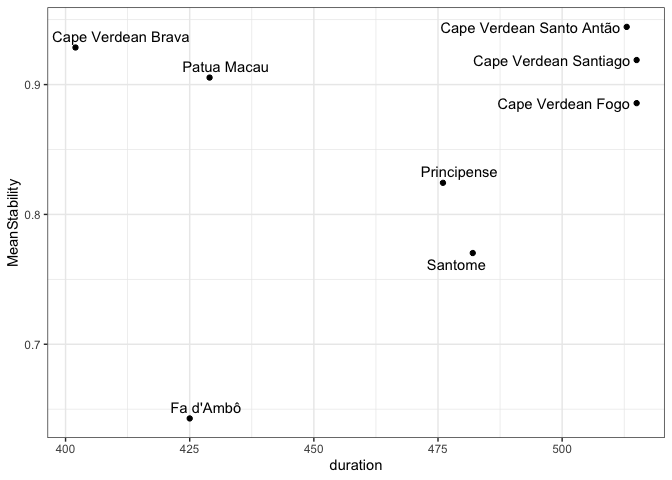
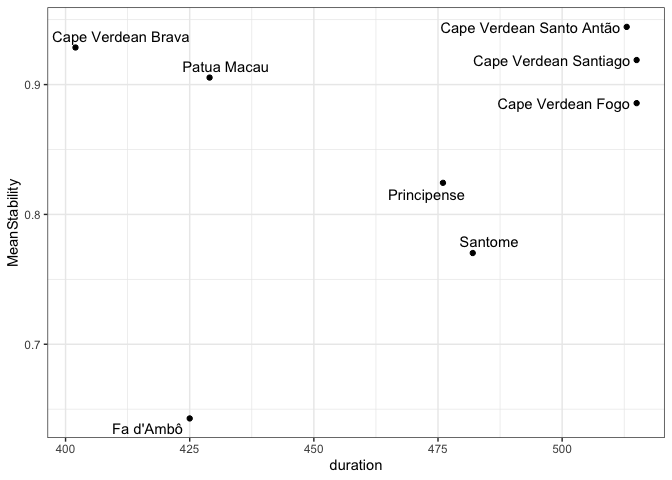
rn

Changed region(s): [[0.5625, 0.3438, 0.75, 0.4375], [0.1562, 0.8438, 0.375, 0.9062], [0.625, 0.5, 0.7812, 0.5625]]

diff --git a/README.md b/README.md
@@ -22,12 +22,9 @@ Steven Moran, Carlos Silva and Nicholas A. Lester
 
 <!-- Supplementary materials for [Consonant Stability in Portuguese-based creoles](https://www.overleaf.com/project/60cdac0dd5871295e0f608fc). Silva, Carlos and Steven Moran. Work in progress. -->
 
-Supplementary materials for:
-
-> > > Consonant Stability in Portuguese-based creoles.
-
-In this report, we provide code in R (R Core Team 2021) and we use these
-R libraries (Wickham et al. 2019; Xie 2021; Slowikowski 2022):
+Supplementary materials for, “Consonant Stability in Portuguese-based
+creoles”. In this report, we provide code in R (R Core Team 2021) and we
+use these R libraries (Wickham et al. 2019; Xie 2021; Slowikowski 2022):
 
 ``` r
 library(tidyverse)
@@ -41,13 +38,10 @@ theme_set(theme_bw())
 Load the data set.
 
 ``` r
-# Because the private token keeps resetting...
-# database <- read_csv('https://raw.githubusercontent.com/CreoPhon/CreoPhonPt/main/Creoles.csv?token=AAIGDLS6YB3YSYW7QJWERXDBVYPOE')
-# write_csv(database, 'database.csv')
 database <- read_csv('database.csv')
 ```
 
-The data look like this.
+The data look like this:
 
 ``` r
 database %>% head() %>% kable()
@@ -62,7 +56,8 @@ database %>% head() %>% kable()
 | Principense | Africa    | Gulf of Guinea | Portuguese |                 1499 |           1975 | Slavery           | Edo             | Stops | word-initial | t               | t             |              1 |               1 | \[ˈtudu\]   | everything | Maurer2009\[237\] |
 | Principense | Africa    | Gulf of Guinea | Portuguese |                 1499 |           1975 | Slavery           | Edo             | Stops | word-medial  | t               | t             |              1 |               1 | \[mata\]    | to kill    | Maurer2009\[227\] |
 
-Let’s extend the database with some variables. Duration of contact.
+We extend the database with some additional variables. First, duration
+of contact.
 
 ``` r
 database$duration <- database$`EndOfInfluence` - database$`FirstMajorSettlement`
@@ -75,14 +70,14 @@ database <- mutate(database, GlobalStability = (PlaceStability + MannerStability
 # table(database$Language, database$GlobalStability)
 ```
 
-Categorical variable for duration.
+Also, a categorical variable for duration.
 
 ``` r
 database <- database %>% mutate(duration_group = ifelse(duration <= 200, 'short', 'long'))
 ```
 
-Categorical variable for changes in manner and/or place. Stability in
-the database is ‘1’ (no change) and ‘0’ change.
+And a categorical variable for changes in manner and/or place. Stability
+in the database is ‘1’ (no change) and ‘0’ (change).
 
 ``` r
 database <- database %>% mutate(categorical_stability = ifelse(PlaceStability == 1 & MannerStability == 1, 'no manner/no place', NA))
@@ -160,18 +155,10 @@ ggplot(creole_stability, aes(x=duration, y=MeanStability)) +
 ``` r
 ggplot(creole_stability, aes(x=duration, y=MeanStability)) +
   geom_point() +
-  geom_text(label=creole_stability$Language)
-```
-
-![](README_files/figure-gfm/unnamed-chunk-11-2.png)<!-- -->
-
-``` r
-ggplot(creole_stability, aes(x=duration, y=MeanStability)) +
-  geom_point() +
   geom_text_repel(aes(label = creole_stability$Language))
 ```
 
-![](README_files/figure-gfm/unnamed-chunk-11-3.png)<!-- -->
+![](README_files/figure-gfm/duration_mean_stability-1.png)<!-- -->
 
 Results from the simple regression.
 
